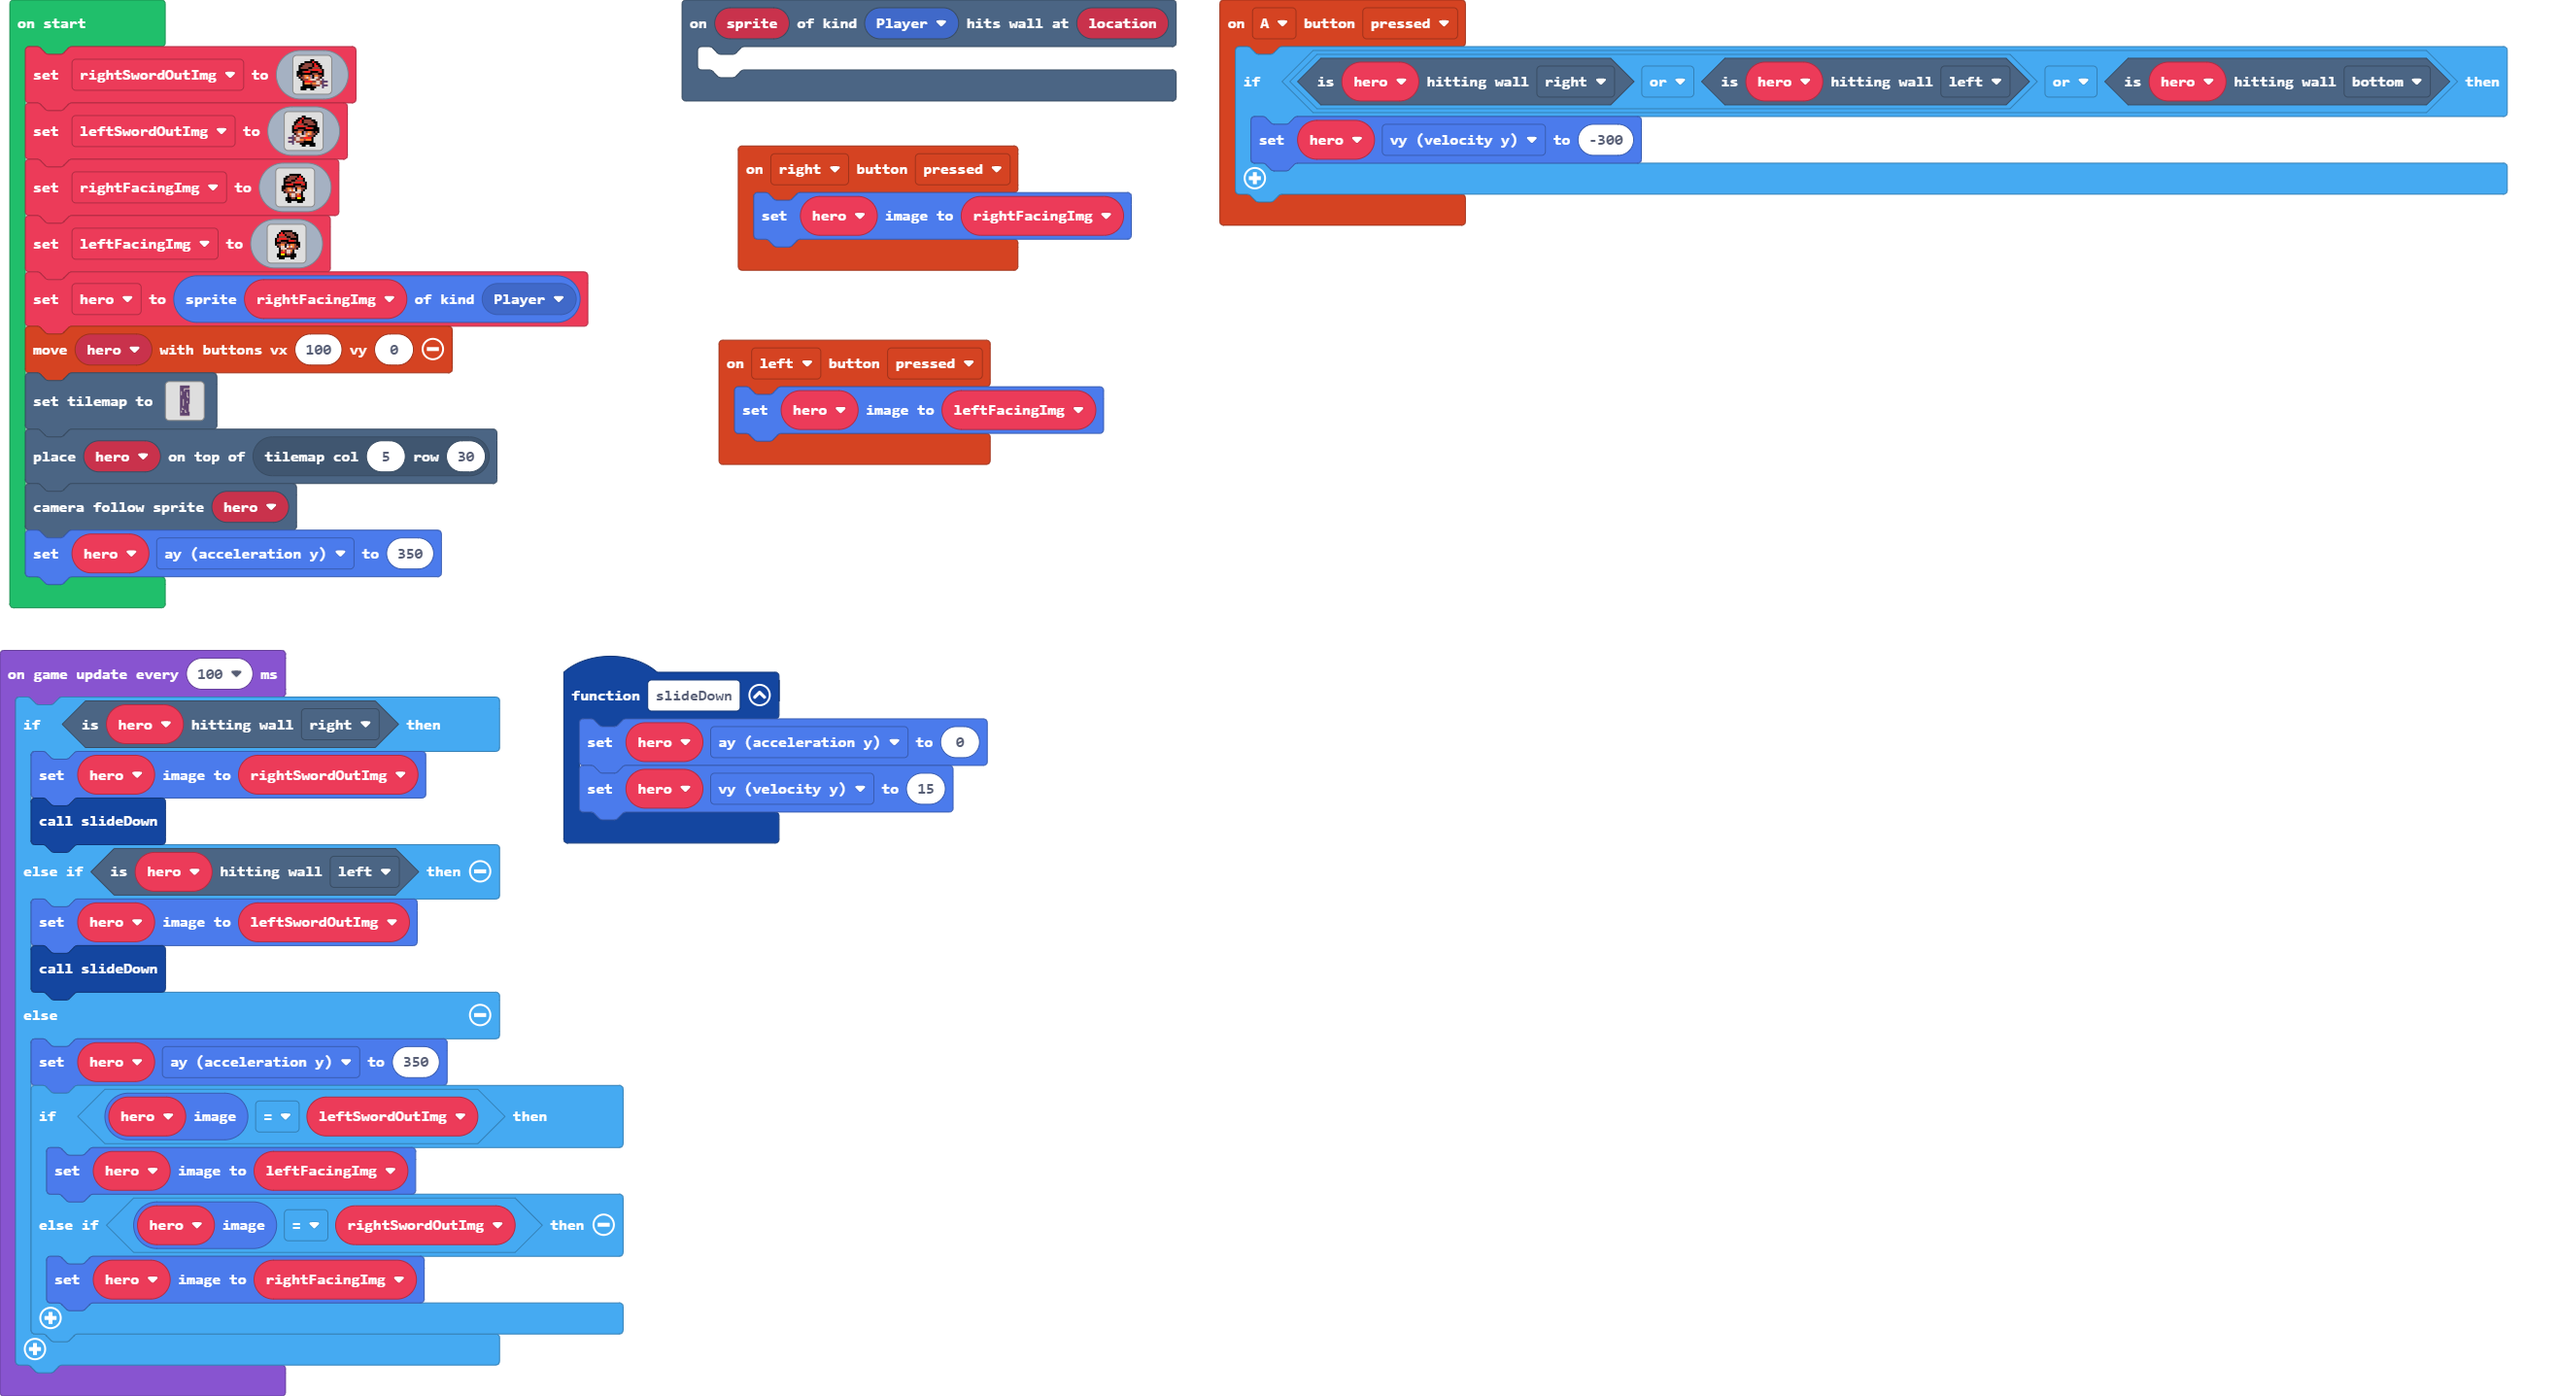
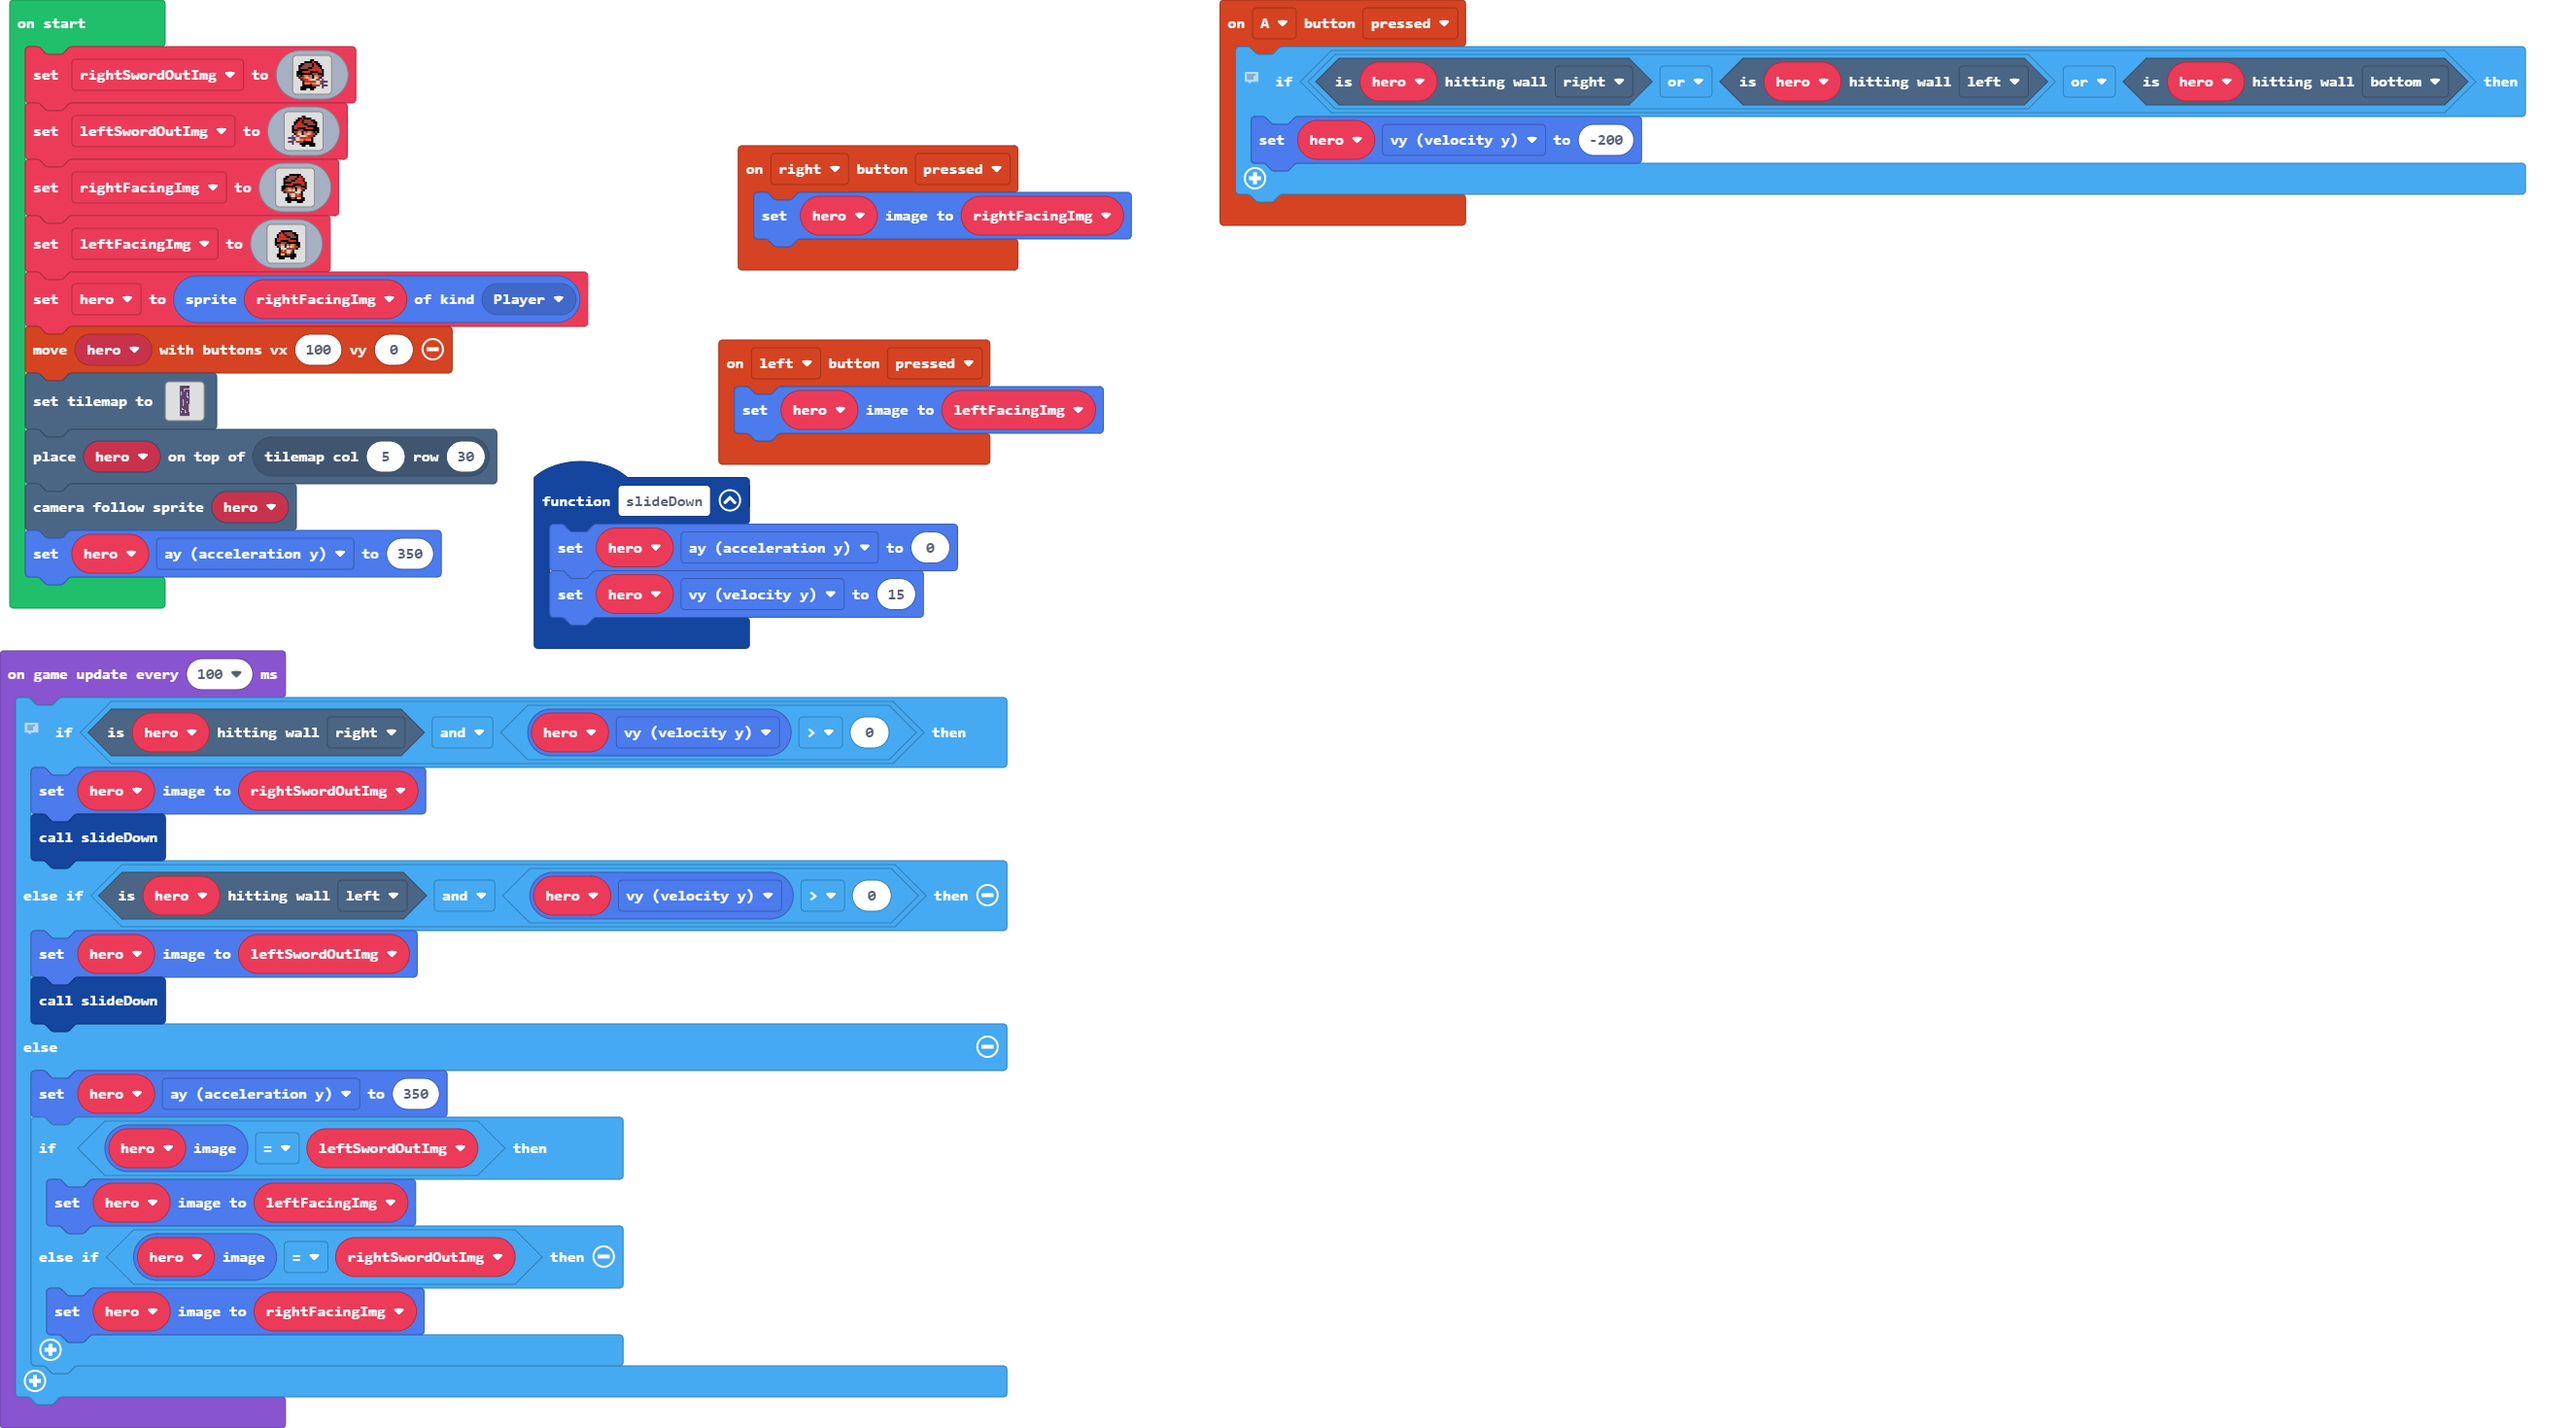
Update main.blocks, main.ts

Changed region(s): [[0.0, 0.0, 0.9966, 0.9798], [0.1869, 0.9186, 0.4049, 0.9798]]

diff --git a/main.ts b/main.ts
@@ -1,13 +1,11 @@
-scene.onHitWall(SpriteKind.Player, function (sprite, location) {
-	
-})
 function slideDown () {
     hero.ay = 0
     hero.vy = 15
 }
 controller.A.onEvent(ControllerButtonEvent.Pressed, function () {
+    // Stop double jump, only allow jump when you are in the air!
     if (hero.isHittingTile(CollisionDirection.Right) || hero.isHittingTile(CollisionDirection.Left) || hero.isHittingTile(CollisionDirection.Bottom)) {
-        hero.vy = -300
+        hero.vy = -200
     }
 })
 controller.left.onEvent(ControllerButtonEvent.Pressed, function () {
@@ -131,10 +129,11 @@ tiles.placeOnTile(hero, tiles.getTileLocation(5, 30))
 scene.cameraFollowSprite(hero)
 hero.ay = 350
 game.onUpdateInterval(100, function () {
-    if (hero.isHittingTile(CollisionDirection.Right)) {
+    // hero.vy checks to make sure you only slide when you are falling
+    if (hero.isHittingTile(CollisionDirection.Right) && hero.vy > 0) {
         hero.setImage(rightSwordOutImg)
         slideDown()
-    } else if (hero.isHittingTile(CollisionDirection.Left)) {
+    } else if (hero.isHittingTile(CollisionDirection.Left) && hero.vy > 0) {
         hero.setImage(leftSwordOutImg)
         slideDown()
     } else {
